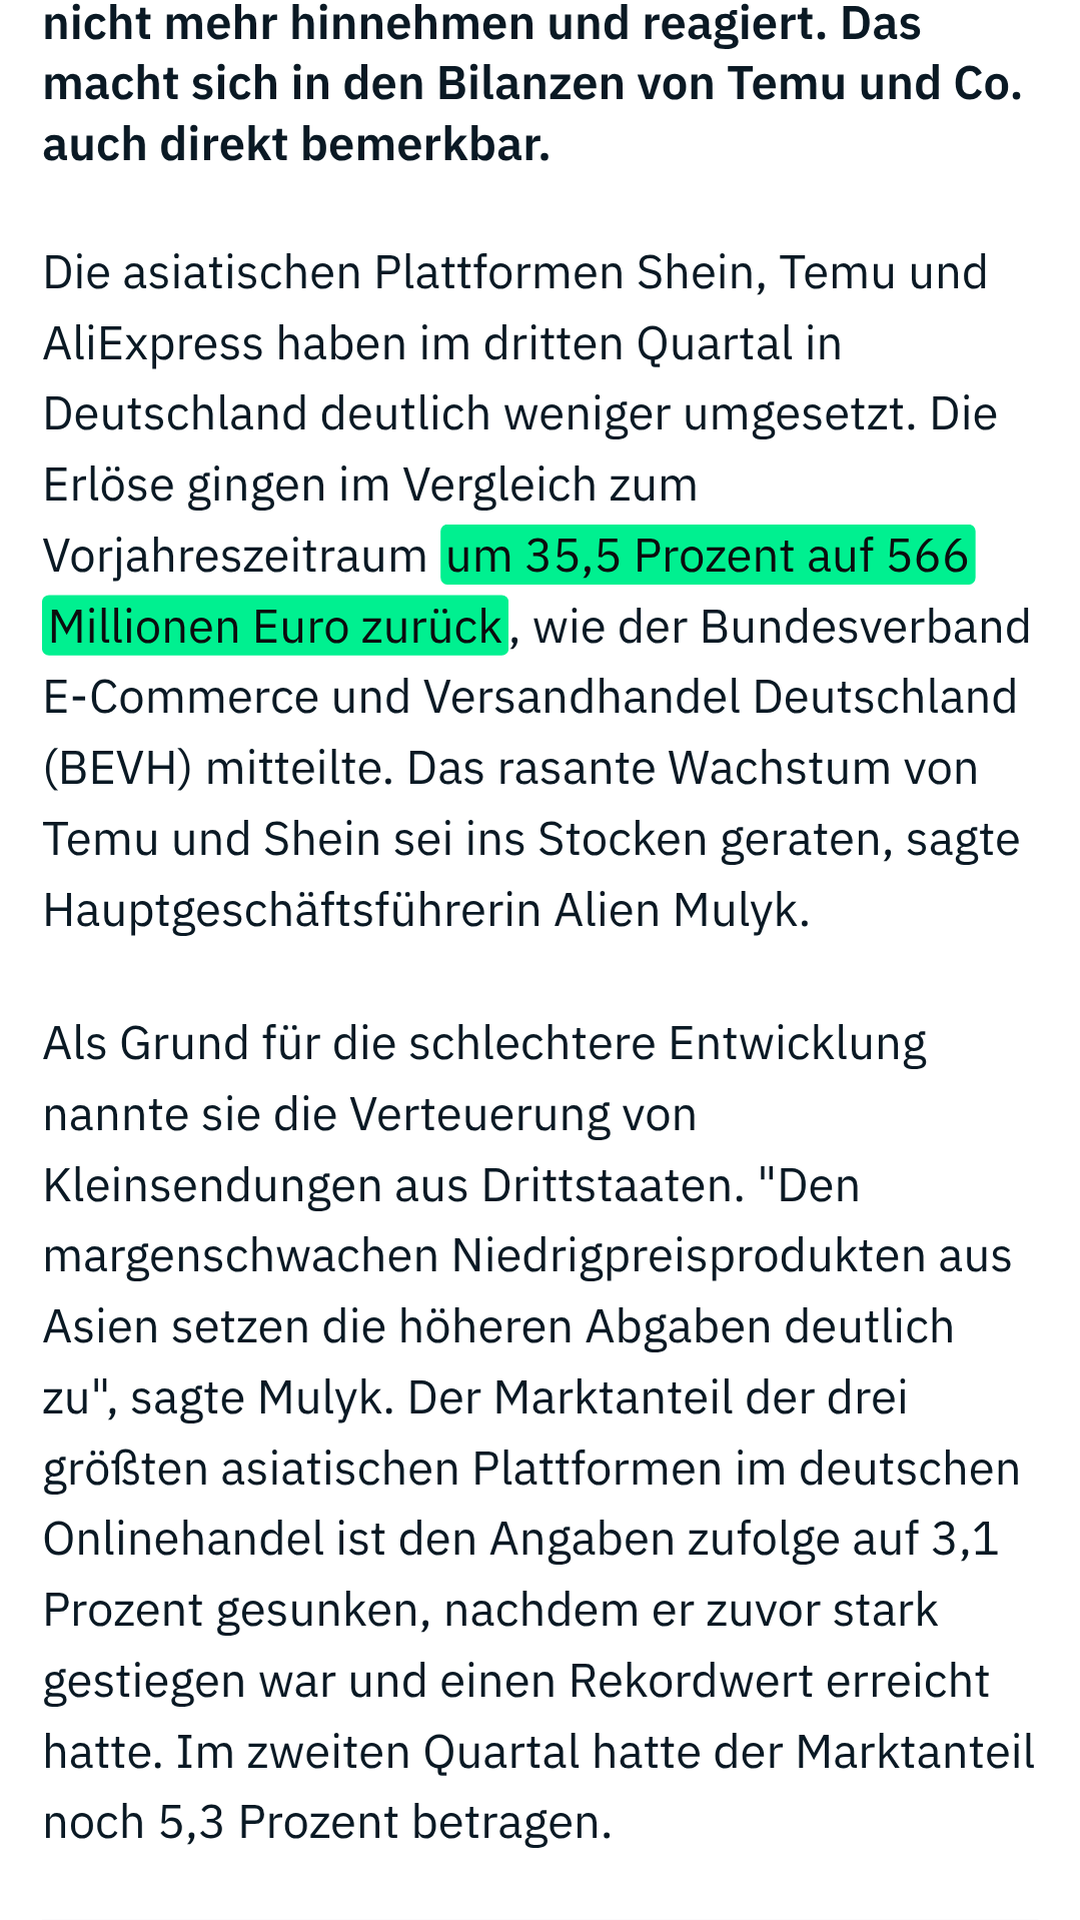
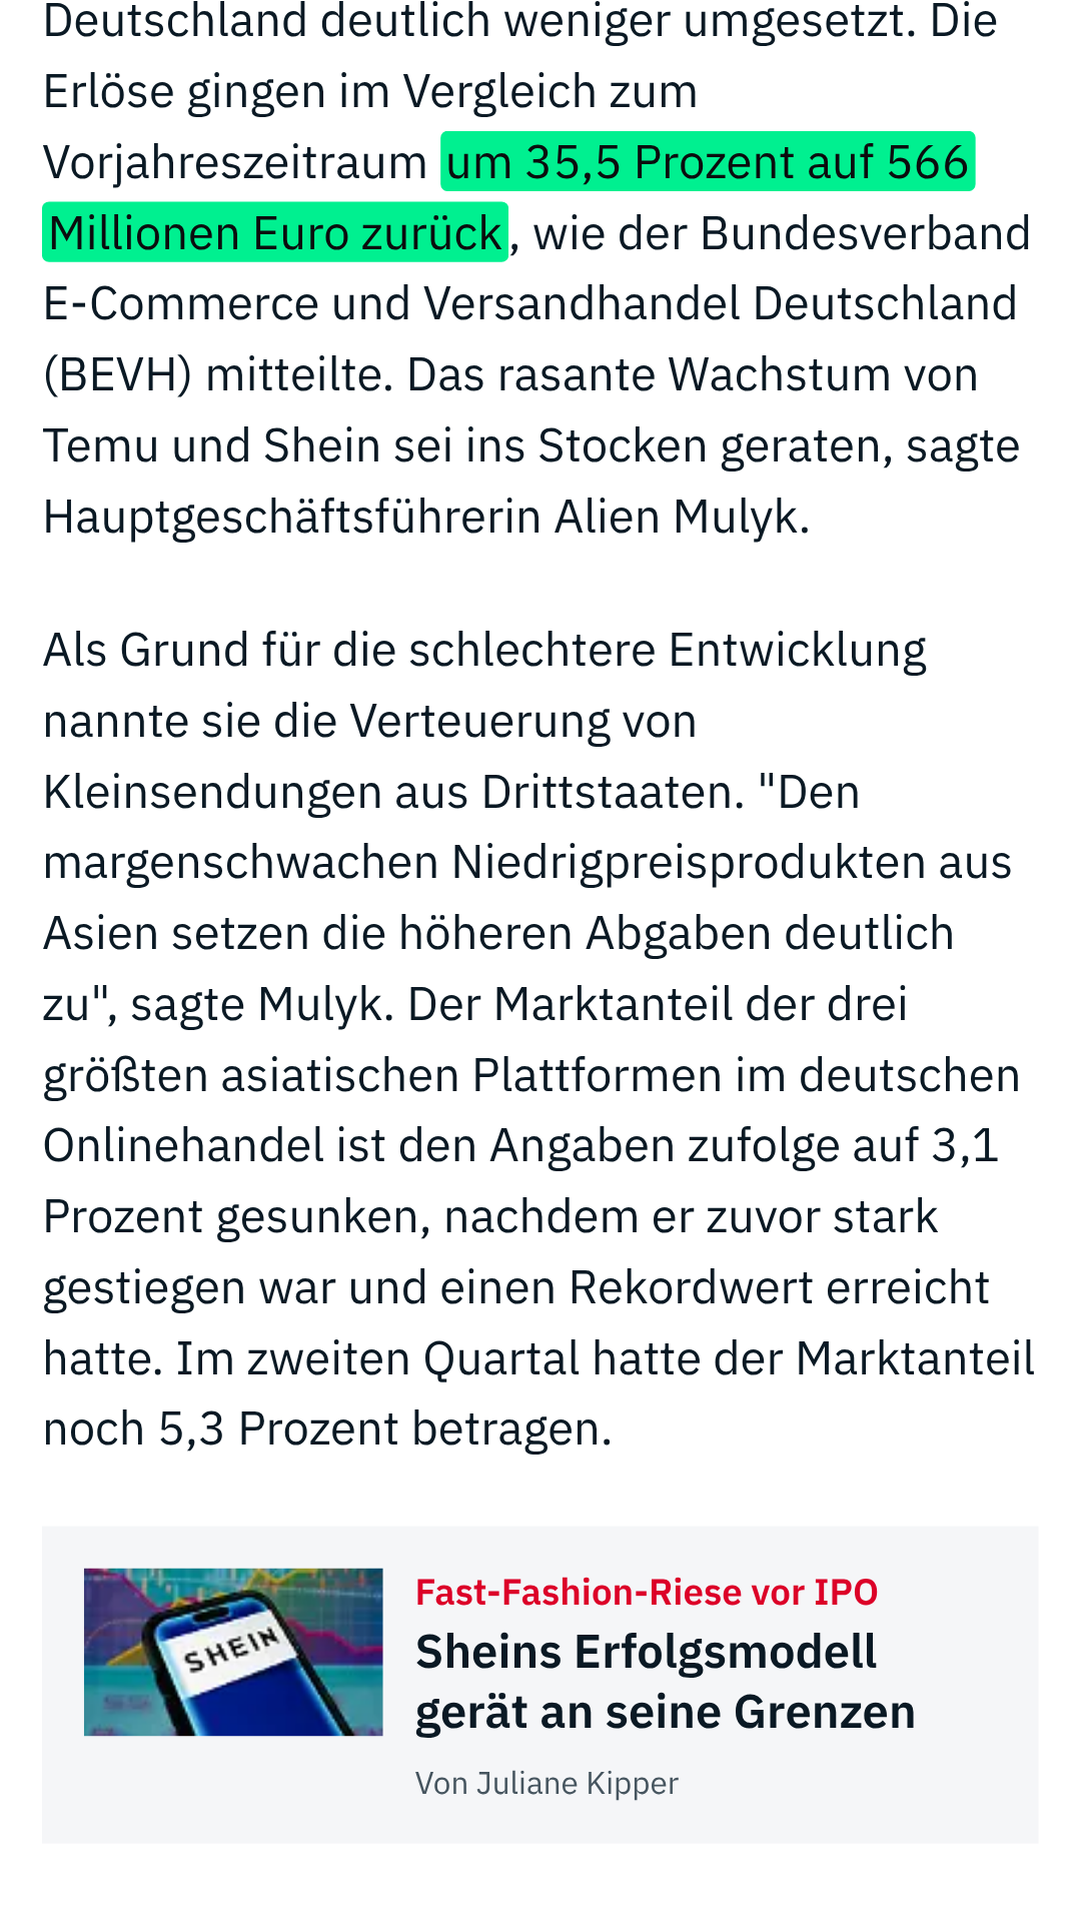
Temu: Gesicht höher, Einblendungen direkt über dem Kopf, Pause nach E-Commerce raus; Regeln im News-Stil
Claude-Session: https://claude.ai/code/session_01GQEjZQTxgiMMht9325BRdG

Changed region(s): [[0.0306, 0.0, 0.9472, 0.9688]]

diff --git a/src/projekte/temu/Video.tsx b/src/projekte/temu/Video.tsx
@@ -21,10 +21,13 @@ import cut from "./cut.json";
 const C = createCut(cut);
 export const meta = { id: "Temu", durationInFrames: C.DURATION, fps: C.FPS };
 
-/** Bildlage (seine Vorgabe, 2026-10-11): Titel und Einblendungen oben, der Kopf direkt darunter ("OBEN"); nur solange
- * die Quelle hinter ihm steht (Greenscreen), liegt er tiefer ("MITTE"), damit der Artikel lesbar ist. */
-const OBEN = { scale: 1.2, hoch: 348 };
-const MITTE = { scale: 1.2, hoch: 160 };
+/** Bildlage (seine Vorgabe, 2026-10-12): das Gesicht im unteren Teil des oberen Drittels, auch vor der Quelle
+ * (Greenscreen); Einblendungen nicht am oberen Rand, sondern direkt über dem Kopf. Die markierte Artikelstelle liegt
+ * darüber (y ~150-330), die Einblendung zur Quelle bei y 340. */
+const OBEN = { scale: 1.2, hoch: 430 };
+const MITTE = OBEN;
+/** Einblendungen zur Quelle: direkt über dem Kopf */
+const QY = 340;
 /** Untertitel klein bei y 1260; Hinweise bei y 1350, die Quellen-Pille klein unten rechts bei y 1440 */
 const UT = { top: 1260, size: 64 };
 const HOSE = 1700;
@@ -109,20 +112,20 @@ const Inhalt: React.FC<Props> = ({ voice = true, sfx = true, raster = false }) =
           Shein, Temu, AliExpress · 3. Quartal
         </Tag>
       </Pop>
-      <Pop fr={fr} at={MINUS} until={T.zoll - 4} x={24} y={118}>
-        <Tag kind="wichtig" size={96}>
+      <Pop fr={fr} at={MINUS} until={T.zoll - 4} x={24} y={QY}>
+        <Tag kind="wichtig" size={64}>
           −35,5 % Umsatz
         </Tag>
       </Pop>
 
       {/* Ein möglicher Grund: der neue EU-Zoll */}
-      <Pop fr={fr} at={F("eu-zölle")} until={DREI - 4} x={24} y={118}>
-        <Tag kind="ok" size={48}>
+      <Pop fr={fr} at={F("eu-zölle")} until={DREI - 4} x={24} y={QY}>
+        <Tag kind="ok" size={44}>
           Möglicher Grund: EU-Zoll
         </Tag>
       </Pop>
-      <Pop fr={fr} at={DREI} until={T.trifft - 4} x={24} y={118}>
-        <Tag kind="wichtig" size={72}>
+      <Pop fr={fr} at={DREI} until={T.trifft - 4} x={24} y={QY}>
+        <Tag kind="wichtig" size={60}>
           3 € pro Warenkategorie
         </Tag>
       </Pop>
@@ -134,32 +137,32 @@ const Inhalt: React.FC<Props> = ({ voice = true, sfx = true, raster = false }) =
 
       {/* Das Spannende: Temu verkauft weniger, deutsche Shops gewinnen nicht automatisch */}
       <Szene fr={fr} at={T.spannend} until={T.shops - 2} title="Das Spannende" frei titelDauer={TITEL}>
-        <Pop fr={fr} at={F("weniger", T.spannend)} until={F("automatisch", T.spannend) - 4} x={24} y={118}>
+        <Pop fr={fr} at={F("weniger", T.spannend)} until={F("automatisch", T.spannend) - 4} x={24} y={110}>
           <Row text="Temu & Co. verkaufen weniger" mark="ok" width={720} onPhoto />
         </Pop>
-        <Pop fr={fr} at={F("automatisch", T.spannend)} x={24} y={118}>
+        <Pop fr={fr} at={F("automatisch", T.spannend)} x={24} y={110}>
           <Row text="deutsche Shops gewinnen nicht automatisch" mark="no" width={900} onPhoto />
         </Pop>
       </Szene>
 
       {/* Womit Shops überzeugen */}
       <Szene fr={fr} at={T.shops} until={T.meinung - 2} title="So überzeugst du Kunden" frei titelDauer={TITEL}>
-        <Pop fr={fr} at={F("produkten")} x={24} y={118}>
+        <Pop fr={fr} at={F("produkten")} x={24} y={110}>
           <Tag kind="ok" size={S}>
             Produkte
           </Tag>
         </Pop>
-        <Pop fr={fr} at={F("vertrauen")} x={x2} y={118}>
+        <Pop fr={fr} at={F("vertrauen")} x={x2} y={110}>
           <Tag kind="ok" size={S}>
             Vertrauen
           </Tag>
         </Pop>
-        <Pop fr={fr} at={F("preisen")} x={x3} y={118}>
+        <Pop fr={fr} at={F("preisen")} x={x3} y={110}>
           <Tag kind="ok" size={S}>
             Preise
           </Tag>
         </Pop>
-        <Pop fr={fr} at={F("funktioniert")} x={x4} y={118}>
+        <Pop fr={fr} at={F("funktioniert")} x={x4} y={110}>
           <Tag kind="ok" size={S}>
             guter Shop
           </Tag>
@@ -168,12 +171,12 @@ const Inhalt: React.FC<Props> = ({ voice = true, sfx = true, raster = false }) =
 
       {/* Seine Meinung */}
       <Szene fr={fr} at={T.meinung} until={T.frage - 2} title="Meine Meinung" frei titelDauer={TITEL}>
-        <Pop fr={fr} at={F("konkurrenz", T.meinung)} x={24} y={118}>
+        <Pop fr={fr} at={F("konkurrenz", T.meinung)} x={24} y={110}>
           <Tag kind="ok" size={44}>
             Weniger Konkurrenz
           </Tag>
         </Pop>
-        <Pop fr={fr} at={F("verkaufsstrategie")} x={tagX("Weniger Konkurrenz", 44)} y={118}>
+        <Pop fr={fr} at={F("verkaufsstrategie")} x={tagX("Weniger Konkurrenz", 44)} y={110}>
           <Tag kind="wichtig" size={44}>
             ≠ Verkaufsstrategie
           </Tag>
@@ -182,12 +185,12 @@ const Inhalt: React.FC<Props> = ({ voice = true, sfx = true, raster = false }) =
 
       {/* Frage an die Community */}
       <Szene fr={fr} at={T.frage} until={Infinity} title="Was glaubt ihr?" frei titelDauer={TITEL}>
-        <Pop fr={fr} at={F("deutschen", T.frage)} x={24} y={118}>
+        <Pop fr={fr} at={F("deutschen", T.frage)} x={24} y={110}>
           <Tag kind="ok" size={44}>
             Mehr bei deutschen Shops?
           </Tag>
         </Pop>
-        <Pop fr={fr} at={F("bestellen", T.frage)} x={tagX("Mehr bei deutschen Shops?", 44)} y={118}>
+        <Pop fr={fr} at={F("bestellen", T.frage)} x={tagX("Mehr bei deutschen Shops?", 44)} y={110}>
           <Tag kind="ok" size={44}>
             Oder weniger?
           </Tag>

diff --git a/.claude/skills/stil-news/SKILL.md b/.claude/skills/stil-news/SKILL.md
@@ -31,17 +31,20 @@ nicht mehr). Schrift, Farben, Untertitel-Look, Hook-Look und Chips kommen aus de
 - **Titel oben, Kopf direkt darunter, Untertitel unten** (seine Vorgabe seit 2026-10-11, alle Formate; ersetzt
   "Gesicht 160 px höher" und den kurzen Versuch mit dem Kopf ganz oben und den Titeln unter dem Kinn): Hook, Titel und
   Einblendungen stehen **oben** (Hook ab y ~210, Szenen-Titel ab y 262, Begriffe in **einer** Zeile darunter bis
-  y ~510). Der Kopf beginnt direkt darunter, so hoch wie es geht: Bildlage "OBEN" mit
-  `<Takes transform="translateY(-348px) scale(1.2)" transformOrigin="50% 0%" />` (bei seinem Bürostuhl-Setup liegt der
-  Haaransatz dann bei y ~550-580, das Kinn bei ~1000-1100; mit Standbildern nachmessen, zwischen Begriffen und Haar
-  mindestens 30 px). Untertitel bei y 1260 (klein, siehe Untertitel), unten `<Bodenblende ab={HOSE * 1.2 - 348} />` gegen Hose und leeren Rand.
+  y ~500). Der Kopf beginnt direkt darunter: **das Gesicht im unteren Teil des oberen Drittels** (Augen bei y ~600-640,
+  seine Vorgabe 2026-10-12: "mein Gesicht könnte hier etwas höher gesetzt sein, im unteren Teil des oberen Drittels"),
+  Bildlage "OBEN" mit `<Takes transform="translateY(-430px) scale(1.2)" transformOrigin="50% 0%" />` (bei seinem
+  Bürostuhl-Setup Haar bei y ~400; mit Standbildern nachmessen; die Begriffe dürfen das Haar knapp berühren, nie die
+  Stirn). Begriffe in der Szene bei `y={110}`. Untertitel bei y 1260 (klein, siehe Untertitel), unten
+  `<Bodenblende ab={HOSE * 1.2 - 430} />` gegen Hose und leeren Rand.
   Pro Szene also nur Titel plus eine Zeile Begriffe: ein weiterer Begriff ersetzt den vorherigen (`until` = nächstes
   Wort - 4 Frames) oder steht daneben (`tagBreite`). Keine Pille unter dem Hook, keine Antwort-Chips (Ja/Nein) am
   Ende, nur die Kommentar-Blase. Akzent-Anker 50 % 42 %.
-  **Ausnahme:** Solange etwas gelesen werden muss, das hinter oder über ihm steht (Zeitungsartikel, Screenshot der
-  Quelle), liegt er tiefer, Lage "MITTE" (`translateY(-160px) scale(1.2)`), und wechselt danach zurück
-  (`ausgabeFrames(C, von, bis)` aus `bausteine.tsx` gibt die Frames der Greenscreen-Stellen). Vorlage:
-  `src/projekte/shopifycanvas/Video.tsx`.
+  **Auch vor der Quelle bleibt er in dieser Lage** (seit 2026-10-12, Temu; vorher lag er dort tiefer, "MITTE" mit
+  -160, und die Einblendungen klebten am oberen Rand: "Die eingeblendeten B-Rolls sind meiner Meinung nach viel zu
+  hoch und stehen direkt am oberen Rand, obwohl nach unten hin noch mehr Platz vorhanden ist"). Kein Lagewechsel mehr;
+  `ausgabeFrames(C, von, bis)` aus `bausteine.tsx` gibt die Frames der Greenscreen-Stellen. Vorlage:
+  `src/projekte/temu/Video.tsx`.
 - **Leichter Porträt-Modus** wie HERO (`npm run portrait`, Stärke 6).
 - **Zoom ruhig** wie HERO (Empfehlung): ein langsames Zoom-in über das Video (100 % → 108 %) und 3 sanfte Akzente auf
   den stärksten Stellen (1,06; 8 Frames hin, 10 zurück).
@@ -56,11 +59,12 @@ nicht mehr). Schrift, Farben, Untertitel-Look, Hook-Look und Chips kommen aus de
   die Stelle, über die er spricht, im Artikel **hellgrün markieren** (`<mark>` in `#00F090`, dunkle Schrift) und
   mittig scrollen. Erst die Schlagzeile (Seite oben), dann die markierte Zahl oder Aussage.
 - **Hintergrundbild bauen** (1080x1920, so wie es im fertigen Video aussehen soll): das Wichtige (Schlagzeile,
-  markierte Stelle) liegt über dem Kopf, also zwischen y ~230 und ~650 (in Lage MITTE beginnt der Kopf bei ~680 laut
-  `npm run raster`). Liegen
+  markierte Stelle) liegt über dem Kopf und über der Einblendung zur Quelle: markierte Stelle bei y ~130-330
+  (Screenshot: `scrollTo(markTop - 50)` in CSS-Pixeln), die Einblendung dazu (z. B. groß "−35,5 % Umsatz",
+  `Tag kind="wichtig" size={64}`) direkt darunter bei y 340, der Kopf ab ~400. Liegen
   lassen in `public/broll/<projekt>/hg-*.png`.
 - **In den Take rechnen:** `npm run portrait -- <projekt> --hintergrund public/broll/<projekt>/hg-x.png@<von>-<bis>
-  [--hintergrund …] --ausschnitt 1.2,160` (von/bis in Sekunden im Take, genau die Sätze, die über die Quelle reden; `bis` mindestens 0,15 s nach dem letzten Wort, sonst blitzt am Schnitt ein Einzelbild mit dem Raum auf, so passiert bei KI-Kunde 2026-10-12, gefunden von `npm run checks`).
+  [--hintergrund …] --ausschnitt 1.2,430` (von/bis in Sekunden im Take, genau die Sätze, die über die Quelle reden; `bis` mindestens 0,15 s nach dem letzten Wort, sonst blitzt am Schnitt ein Einzelbild mit dem Raum auf, so passiert bei KI-Kunde 2026-10-12, gefunden von `npm run checks`).
   Das Werkzeug stellt ihn dort frei und legt das Bild dahinter; überall sonst bleibt der weiche Porträt-Hintergrund.
 - Während der Quelle: keine Titel über dem Kopf, nur die **Quelle klein unten rechts** im sicheren Bereich
   ("Quelle: Shopify, 1. Okt. 2026", `Tag kind="ink" size={28}`, `<Pop x={60} y={1440} w={890} style={{ textAlign:

diff --git a/.claude/skills/faber-cut/SKILL.md b/.claude/skills/faber-cut/SKILL.md
@@ -136,7 +136,7 @@ Erst wenn er "passt" sagt:
    ("Denn wenn dein Star- … Denn wenn dein Startup"). Jede Meldung nachhören (`snips`), den sauberen letzten Anlauf
    nehmen, die Wortzeiten im `t1.aligned.json` korrigieren. Auch hörbare Fehlstarts mit Pause danach ("Und wenn …
    du wissen willst") gehören raus.
-1. **Füllwörter immer raus, Pausen ab 0,3 s raus, aber keine Mini-Jump-Cuts:** kein Stück unter ~0,8 s mitten im Satz (das macht `tools/schnitt.py` selbst). Ein Satz wird nie zerhackt, ein Wort nie angeschnitten.
+1. **Füllwörter immer raus, Pausen ab 0,3 s raus, aber keine Mini-Jump-Cuts:** kein Stück unter ~0,8 s mitten im Satz (das macht `tools/schnitt.py` selbst). Ein Satz wird nie zerhackt, ein Wort nie angeschnitten. Die Wortzeiten von Whisper verdecken solche Pausen oft (das Wort "endet" erst nach der Stille): bei verdächtigen Stellen mit `spec` die Pegel ansehen und Wortende/-anfang im `t1.aligned.json` auf den Laut setzen ("Bei 0:30 ist eine kurze Pause nach 'E-Commerce' welche raus kann", Temu 2026-10-12: 0,3 s Stille in "E-Commerce … Tipps").
 2. **Kontext vor Tempo.** Bevor ein Nebensatz rausfliegt: Satz davor und danach ohne ihn lesen. Fragt ein Zuschauer dann "warum?" oder "was?", bleibt er drin. Der Aufruf (CTA) bleibt ein Stück.
 3. **Zahlen, Ergebnisse, Daten werden nie erfunden.** Auf dem Bildschirm stehen die Zahlen, die er sagt oder die gemessen sind.
 4. **Keine Musik**, wenn er seine eigene drunterlegt (Standard, siehe der Stil des Formats). Soundeffekte immer deutlich unter der Stimme.
